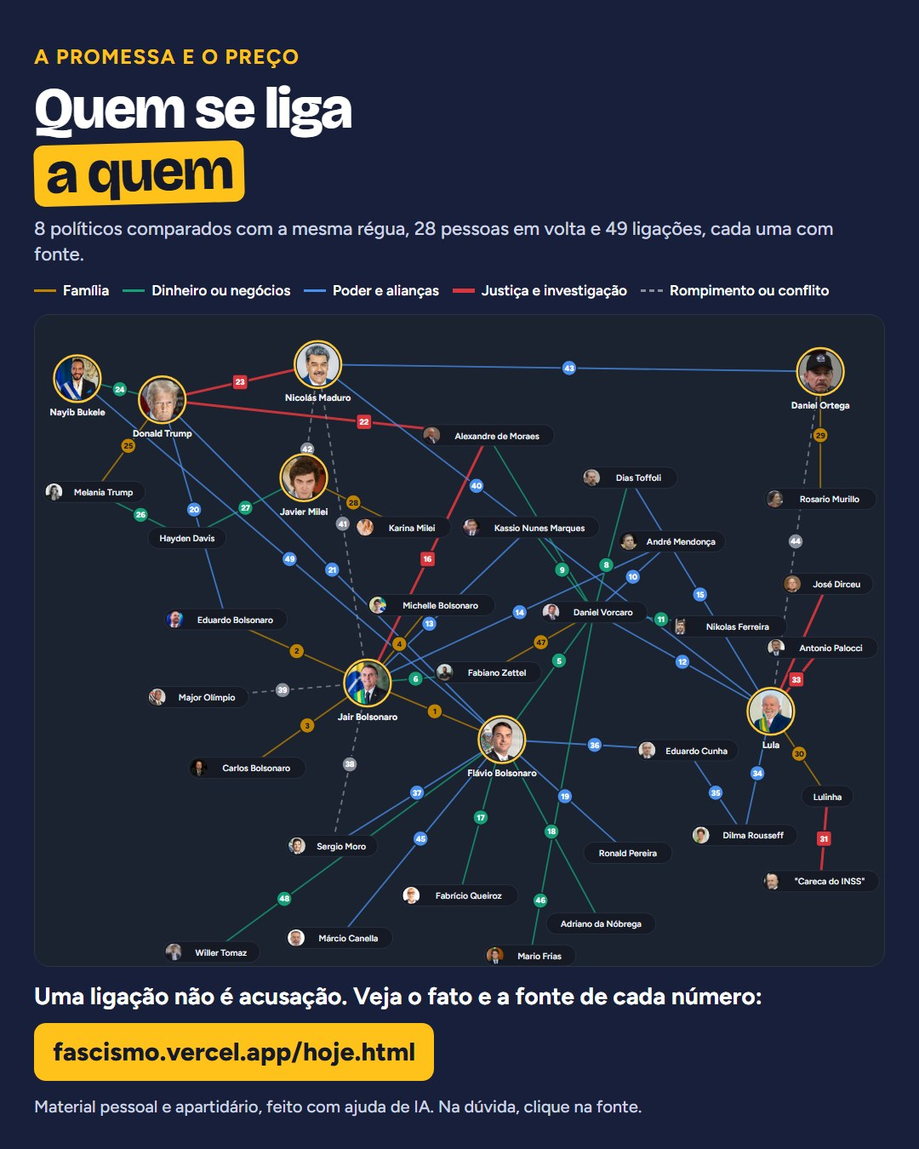
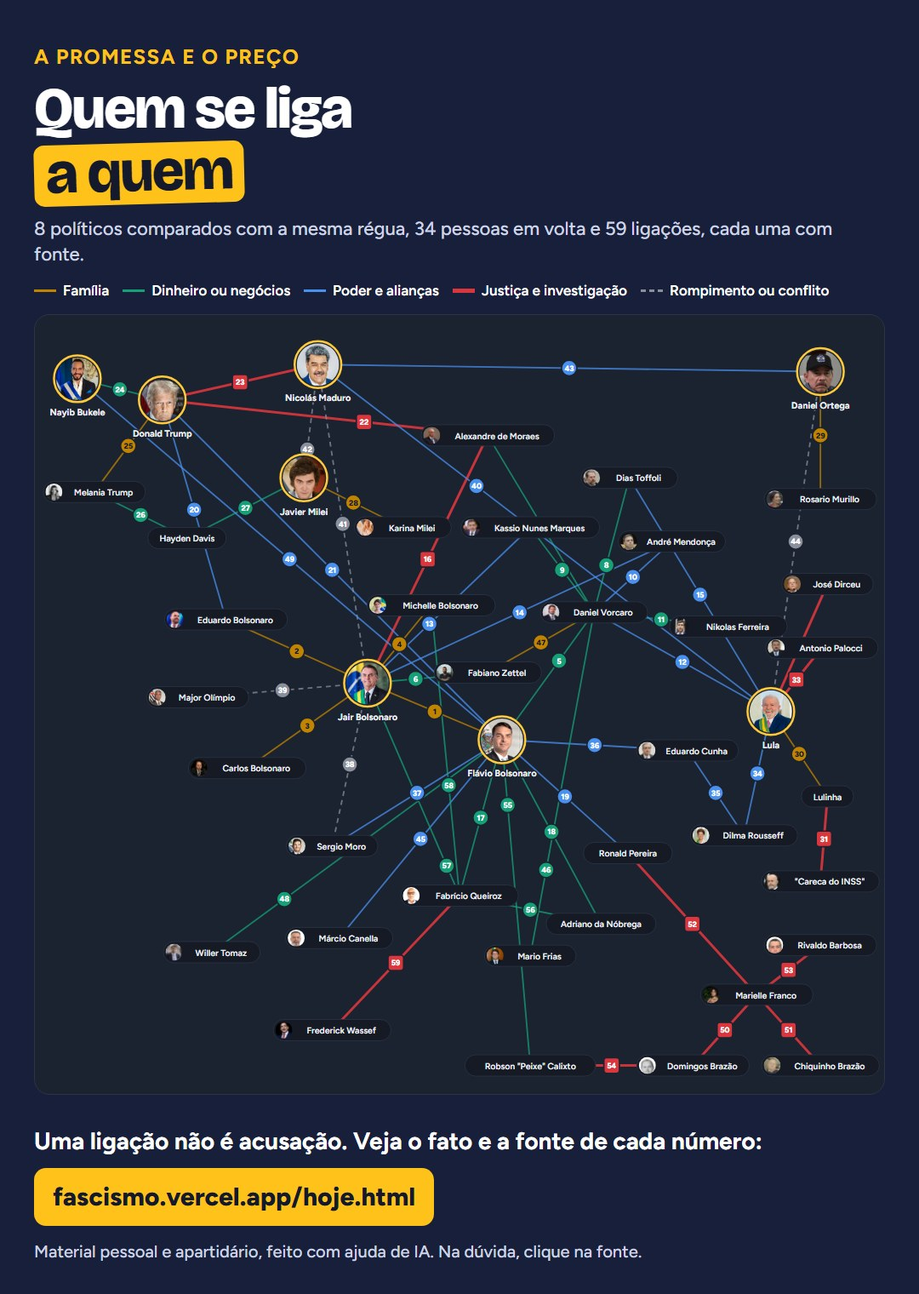
Caso Marielle, Queiroz e Flavio advogado: 10 ligacoes novas no mapa e 2 cards

Changed region(s): [[0.0306, 0.0311, 0.9472, 0.9956], [0.1833, 0.7156, 0.275, 0.7467]]

diff --git a/js/conexoes.js b/js/conexoes.js
@@ -37,7 +37,13 @@
     canella: ['Márcio Canella', 430, 880],
     frias: ['Mario Frias', 700, 905],
     zettel: ['Fabiano Zettel', 640, 505],
-    tomaz: ['Willer Tomaz', 250, 900]
+    tomaz: ['Willer Tomaz', 250, 900],
+    marielle: ['Marielle Franco', 1020, 960],
+    domingos: ['Domingos Brazão', 930, 1060],
+    chiquinho: ['Chiquinho Brazão', 1110, 1060],
+    rivaldo: ['Rivaldo Barbosa', 1110, 890],
+    peixe: ['Robson "Peixe" Calixto', 700, 1060],
+    wassef: ['Frederick Wassef', 420, 1010]
   };
   /* [de, para, tipo, texto, posicao do numero na linha (opcional, 0 a 1), fonte (opcional, para fatos que nao estao no resto da pagina)] */
   var L = [
@@ -86,10 +92,20 @@
     ['maduro', 'ortega', 'poder', 'Aliados: em 2021, Maduro saudou a reeleição de Ortega, feita com os sete principais rivais presos.', 0.5, ['RPP', 'https://rpp.pe/mundo/actualidad/nicaragua-tiene-quien-la-defienda-nicolas-maduro-saluda-la-segura-reeleccion-de-daniel-ortega-noticia-1367976']],
     ['lula', 'ortega', 'rompe', 'Ortega ignorou o pedido de Lula pela libertação de um bispo preso; em 08/2024, os dois países expulsaram os embaixadores um do outro.', 0.5, ['SBT News', 'https://sbtnews.sbt.com.br/noticia/politica/em-retaliacao-a-ortega-governo-lula-expulsa-embaixadora-da-nicaragua']],
     ['flavio', 'canella', 'poder', 'Flávio apoiou Canella ao Senado em 2026, com a própria mãe como suplente; Canella foi preso duas vezes na operação Unha e Carne e nega os crimes.', 0.5, ['Jornal do Brasil', 'https://www.jb.com.br/brasil/politica/2026/07/1060205-preso-pela-pf-canella-e-o-candidato-ao-senado-de-flavio-bolsonaro-no-rj.html']],
-    ['frias', 'vorcaro', 'dinheiro', 'O deputado e ator Mario Frias (PL), reeleito em 2026, criou a história do filme sobre Jair e agradeceu a Vorcaro pelo apoio; a produtora nega ter recebido dinheiro do banqueiro.', 0.16, ['O Povo (BBC)', 'https://www.opovo.com.br/agencia/bbc/2026/05/27/de-baixissimo-orcamento-a-milhoes-pedidos-a-vorcaro-os-bastidores-do-filme-sobre-bolsonaro.html']],
+    ['frias', 'vorcaro', 'dinheiro', 'O deputado e ator Mario Frias (PL), reeleito em 2026, criou a história do filme sobre Jair e agradeceu a Vorcaro pelo apoio; a produtora nega ter recebido dinheiro do banqueiro.', 0.25, ['O Povo (BBC)', 'https://www.opovo.com.br/agencia/bbc/2026/05/27/de-baixissimo-orcamento-a-milhoes-pedidos-a-vorcaro-os-bastidores-do-filme-sobre-bolsonaro.html']],
     ['vorcaro', 'zettel', 'familia', 'Cunhado e, segundo a PF, operador financeiro de Vorcaro. A igreja Lagoinha de Belo Horizonte recebeu R$ 19,2 milhões dele entre 2024 e 2025, segundo o Coaf.', 0.5, ['Correio Braziliense', 'https://www.correiobraziliense.com.br/economia/2026/01/7343481-church-bank-banco-master-lagoinha-e-as-conexoes-sob-investigacao.html']],
     ['flavio', 'tomaz', 'dinheiro', 'A PF aponta Flávio como "usuário master" da conta de uma empresa do advogado Willer Tomaz, dona de um terço do jato também usado por Vorcaro; Tomaz é investigado na fraude do INSS. Flávio nega e diz que o vínculo foi um erro corrigido. Segundo a PF, os dois conversavam pelo Confide, aplicativo de mensagens que se apagam.', 0.75, ['BPMoney', 'https://bpmoney.com.br/politica/flavio-bolsonaro-usuario-master-offshore-jato-vorcaro/']],
-    ['flavio', 'bukele', 'poder', 'Flávio e Eduardo foram a El Salvador em 11/2025 estudar o modelo de segurança de Bukele e se reuniram com o ministro da Segurança dele.', 0.5, ['CNN Brasil', 'https://www.cnnbrasil.com.br/politica/flavio-e-eduardo-vao-a-el-salvador-encontrar-bukele/']]
+    ['flavio', 'bukele', 'poder', 'Flávio e Eduardo foram a El Salvador em 11/2025 estudar o modelo de segurança de Bukele e se reuniram com o ministro da Segurança dele.', 0.5, ['CNN Brasil', 'https://www.cnnbrasil.com.br/politica/flavio-e-eduardo-vao-a-el-salvador-encontrar-bukele/']],
+    ['domingos', 'marielle', 'justica', 'Em 02/2026, o STF condenou Domingos Brazão a 76 anos e 3 meses como mandante dos assassinatos de Marielle e do motorista Anderson Gomes; cabe recurso.', 0.5, ['Agência Brasil', 'https://agenciabrasil.ebc.com.br/justica/noticia/2026-02/por-unanimidade-stf-condena-assassinos-de-marielle-e-anderson']],
+    ['chiquinho', 'marielle', 'justica', 'Irmão de Domingos, Chiquinho Brazão também foi condenado pelo STF a 76 anos e 3 meses como mandante; cabe recurso.', 0.5, ['Metrópoles', 'https://www.metropoles.com/colunas/manoela-alcantara/caso-marielle-penas-brazao-stf']],
+    ['ronald', 'marielle', 'justica', 'Em 02/2026, o STF condenou Ronald a 56 anos por participar do planejamento e do monitoramento de Marielle.', 0.5, ['CNN Brasil', 'https://www.cnnbrasil.com.br/politica/stf-condena-major-ronald-a-56-anos-pela-morte-de-marielle-franco/']],
+    ['rivaldo', 'marielle', 'justica', 'Chefe da Polícia Civil do Rio quando o crime aconteceu, Rivaldo foi absolvido do homicídio e condenado a 18 anos por obstrução de Justiça e corrupção.', 0.5, ['Metrópoles', 'https://www.metropoles.com/colunas/manoela-alcantara/caso-marielle-penas-brazao-stf']],
+    ['peixe', 'domingos', 'justica', 'Ex-assessor de Domingos na Alerj e no Tribunal de Contas do Rio, Peixe foi condenado pelo STF a 9 anos por integrar a organização criminosa dos Brazão.', 0.5, ['Estado de Minas', 'https://www.em.com.br/nacional/2026/09/7506650-quem-e-robson-calixto-o-miliciano-que-cobrou-emenda-de-flavio-bolsonaro.html']],
+    ['flavio', 'peixe', 'dinheiro', 'Em 10/2023, Peixe pediu a uma assessora de Flávio ajuda do "nosso senador" para um projeto esportivo; dias depois, uma emenda de Flávio destinou R$ 199.999,79 ao instituto indicado. O TCU viu indícios de irregularidade. Flávio diz que a destinação foi regular.', 0.2, ['Poder360', 'https://www.poder360.com.br/poder-congresso/assessora-de-flavio-tratou-de-emenda-com-miliciano-do-caso-marielle/']],
+    ['queiroz', 'adriano', 'dinheiro', 'Segundo o MP do Rio, Queiroz levou a mulher e a mãe de Adriano para o gabinete de Flávio, e parte dos salários voltou para ele. Em 2020, o advogado de Adriano assumiu a defesa de Queiroz.', 0.5, ['Correio Braziliense', 'https://www.correiobraziliense.com.br/app/noticia/politica/2020/06/18/interna_politica,864956/advogado-de-miliciano-morto-na-bahia-agora-defende-queiroz.shtml']],
+    ['jair', 'queiroz', 'dinheiro', 'Amigo de Jair desde 1984, quando foi soldado dele na brigada paraquedista. A filha de Queiroz trabalhou no gabinete de Jair na Câmara de 2016 a 2018, enquanto dava aulas de personal trainer no Rio, e repassou ao pai R$ 150 mil, 77% do que recebeu.', 0.86, ['Congresso em Foco', 'https://www.congressoemfoco.com.br/corrupcao/gabinete-de-bolsonaro-atestou-frequencia-de-filha-de-queiroz-que-era-personal-trainer-no-rj']],
+    ['michelle', 'queiroz', 'dinheiro', 'Queiroz e a mulher depositaram R$ 89 mil em 27 cheques na conta de Michelle entre 2011 e 2016. Jair disse que era o pagamento de um empréstimo de R$ 40 mil; a PGR foi contra investigar, e o pedido foi arquivado.', 0.62, ['O Povo', 'https://mais.opovo.com.br/jornal/politica/2020/08/08/queiroz-e-esposa-fizeram-27-depositos-para-michelle-bolsonaro.html']],
+    ['queiroz', 'wassef', 'justica', 'Queiroz foi preso em 06/2020 numa casa de Frederick Wassef em Atibaia (SP); Wassef era advogado de Flávio e de Jair e nega tê-lo escondido.', 0.5, ['Metrópoles', 'https://www.metropoles.com/brasil/policia-br/policia-arrombou-portao-da-casa-de-advogado-para-prender-fabricio-queiroz']],
   ];
   var TIPOS = { familia: 'Família', dinheiro: 'Dinheiro ou negócios', poder: 'Poder e alianças', justica: 'Justiça e investigação', rompe: 'Rompimento ou conflito' };
 
@@ -108,20 +124,27 @@
     'Moro deixou o governo acusando interferência na PF.', 'Rompeu dizendo que Jair quis "proteger filho bandido".', 'Lula chamou de "narrativa" as acusações a Maduro.',
     'Jair rompeu com Maduro e reconheceu Guaidó.', 'Milei chamou Maduro de "ditador criminoso".', 'Aliados; Maduro saudou a reeleição de Ortega.', 'Ortega ignorou Lula; embaixadores expulsos.',
     'Flávio apoiou Canella ao Senado; Canella foi preso.', 'Frias criou o filme sobre Jair e agradeceu Vorcaro.', 'Cunhado e operador financeiro de Vorcaro.',
-    'PF aponta Flávio como "usuário master" de conta de Tomaz; os dois conversavam por app de mensagens que se apagam.', 'Flávio foi a El Salvador estudar o modelo de Bukele.'
+    'PF aponta Flávio como "usuário master" de conta de Tomaz; os dois conversavam por app de mensagens que se apagam.', 'Flávio foi a El Salvador estudar o modelo de Bukele.',
+    'Condenado como mandante da morte de Marielle.', 'Condenado como mandante da morte de Marielle.', 'Condenado a 56 anos pela morte de Marielle.',
+    'Condenado por obstruir a investigação.', 'Condenado por integrar o grupo dos Brazão.', 'Pediu à assessora de Flávio; emenda de R$ 200 mil foi ao instituto indicado.',
+    'Mulher e mãe de Adriano no gabinete, segundo o MP.',
+    'Soldado de Jair em 1984; a filha dele esteve no gabinete de Jair.', 'R$ 89 mil em cheques para Michelle.', 'Preso numa casa do advogado da família.'
   ];
   var IR = ['crit-7', 'volta-8', 'volta-8', 'volta-7', 'crit-7', 'volta-4', 'volta-4', 'volta-4', 'volta-5', 'volta-4', 'volta-4', 'volta-4', 'volta-5', 'crit-10', 'volta-4',
     'crit-5', 'crit-7', 'crit-5', 'crit-5', 'volta-3', 'volta-12', 'volta-3', 'crit-7', 'crit-6', 'crit-7', 'crit-7', 'crit-7', 'crit-7', 'crit-7', 'crit-7', 'crit-7', 'crit-7', 'crit-7',
-    'volta-10', 'volta-10', 'volta-10', 'volta-9', 'crit-3', 'volta-9', 'lig-40', 'lig-41', 'lig-42', 'lig-43', 'lig-44', 'volta-11', 'volta-15', 'volta-6', 'crit-7', 'lig-49'];
+    'volta-10', 'volta-10', 'volta-10', 'volta-9', 'crit-3', 'volta-9', 'lig-40', 'lig-41', 'lig-42', 'lig-43', 'lig-44', 'volta-11', 'volta-15', 'volta-6', 'crit-7', 'lig-49',
+    'volta-17', 'volta-17', 'volta-17', 'volta-17', 'volta-17', 'volta-17', 'volta-17', 'lig-57', 'lig-58', 'lig-59'];
   var PAPEL = {
     trump: 'Presidente dos EUA', melania: 'Mulher de Trump', hayden: 'Empresário de criptomoedas', milei: 'Presidente da Argentina', karina: 'Irmã de Milei, secretária-geral',
     maduro: 'Ex-presidente da Venezuela, preso nos EUA', bukele: 'Presidente de El Salvador', ortega: 'Presidente da Nicarágua', murillo: 'Copresidente da Nicarágua',
     jair: 'Ex-presidente, condenado por tentativa de golpe', flavio: 'Senador, candidato do PL a presidente', eduardo: 'Filho de Jair', carlos: 'Filho de Jair, eleito senador',
-    michelle: 'Mulher de Jair, eleita senadora', moro: 'Ex-ministro de Jair, eleito governador do PR', olimpio: 'Ex-senador, morto em 2021', queiroz: 'Ex-assessor de Flávio',
+    michelle: 'Mulher de Jair, eleita senadora', moro: 'Ex-ministro de Jair, eleito governador do PR', olimpio: 'Ex-senador, morto em 2021', queiroz: 'Ex-assessor de Flávio, amigo de Jair desde 1984',
     adriano: 'Ex-PM, chefe do "Escritório do Crime"', ronald: 'Ex-PM, condenado no caso Marielle', vorcaro: 'Dono do Banco Master, preso', moraes: 'Ministro do STF',
     toffoli: 'Ministro do STF', kassio: 'Ministro do STF e presidente do TSE', mendonca: 'Ministro do STF', nikolas: 'Deputado federal (PL)', lula: 'Presidente, candidato à reeleição',
     lulinha: 'Filho de Lula', careca: 'Operador das fraudes do INSS, segundo a PF', dirceu: 'Ex-ministro de Lula', palocci: 'Ex-ministro de Lula', dilma: 'Ex-presidente',
-    cunha: 'Ex-presidente da Câmara', canella: 'Deputado estadual eleito (União)', frias: 'Deputado federal (PL) e ator', zettel: 'Cunhado de Vorcaro, preso', tomaz: 'Advogado investigado no caso do INSS'
+    cunha: 'Ex-presidente da Câmara', canella: 'Deputado estadual eleito (União)', frias: 'Deputado federal (PL) e ator', zettel: 'Cunhado de Vorcaro, preso', tomaz: 'Advogado investigado no caso do INSS',
+    marielle: 'Vereadora do Rio (PSOL), assassinada em 2018', domingos: 'Condenado como mandante da morte de Marielle', chiquinho: 'Condenado como mandante da morte de Marielle',
+    rivaldo: 'Ex-chefe da Polícia Civil do Rio, condenado', peixe: 'Ex-assessor de Domingos Brazão, condenado', wassef: 'Advogado de Flávio e de Jair até 2020'
   };
 
   var svg = document.getElementById('rede-svg');
@@ -148,7 +171,7 @@
     var t = el('text', { x: mx, y: my + 4 }, g); t.textContent = n;
   });
 
-  var FOTO = {queiroz: 'assets/p-queiroz.jpg', melania: 'assets/p-melania.jpg', karina: 'assets/p-karina.jpg', murillo: 'assets/p-murillo.jpg', eduardo: 'assets/p-eduardo.jpg', carlos: 'assets/p-carlos.jpg', michelle: 'assets/p-michelle.jpg', moro: 'assets/p-moro.jpg', olimpio: 'assets/p-olimpio.jpg', vorcaro: 'assets/p-vorcaro.jpg', moraes: 'assets/p-moraes.jpg', toffoli: 'assets/p-toffoli.jpg', kassio: 'assets/p-kassio.jpg', mendonca: 'assets/p-mendonca.jpg', nikolas: 'assets/p-nikolas.jpg', careca: 'assets/p-careca.jpg', dirceu: 'assets/p-dirceu.jpg', palocci: 'assets/p-palocci.jpg', dilma: 'assets/p-dilma.jpg', cunha: 'assets/p-cunha.jpg', canella: 'assets/p-canella.jpg', frias: 'assets/p-frias.jpg', zettel: 'assets/p-zettel.jpg', tomaz: 'assets/p-tomaz.jpg'};
+  var FOTO = {wassef: 'assets/p-wassef.jpg', marielle: 'assets/p-marielle.jpg', domingos: 'assets/p-domingos.jpg', chiquinho: 'assets/p-chiquinho.jpg', rivaldo: 'assets/p-rivaldo.jpg', queiroz: 'assets/p-queiroz.jpg', melania: 'assets/p-melania.jpg', karina: 'assets/p-karina.jpg', murillo: 'assets/p-murillo.jpg', eduardo: 'assets/p-eduardo.jpg', carlos: 'assets/p-carlos.jpg', michelle: 'assets/p-michelle.jpg', moro: 'assets/p-moro.jpg', olimpio: 'assets/p-olimpio.jpg', vorcaro: 'assets/p-vorcaro.jpg', moraes: 'assets/p-moraes.jpg', toffoli: 'assets/p-toffoli.jpg', kassio: 'assets/p-kassio.jpg', mendonca: 'assets/p-mendonca.jpg', nikolas: 'assets/p-nikolas.jpg', careca: 'assets/p-careca.jpg', dirceu: 'assets/p-dirceu.jpg', palocci: 'assets/p-palocci.jpg', dilma: 'assets/p-dilma.jpg', cunha: 'assets/p-cunha.jpg', canella: 'assets/p-canella.jpg', frias: 'assets/p-frias.jpg', zettel: 'assets/p-zettel.jpg', tomaz: 'assets/p-tomaz.jpg'};
   Object.keys(N).forEach(function (id) {
     var d = N[id], g = el('g', { 'class': 'r-no' + (d[3] ? ' r-foto' : ''), 'data-id': id, tabindex: 0, role: 'button', 'aria-label': d[0] + ': ver as ligações' }, gN);
     if (d[3]) {

diff --git a/hoje.html b/hoje.html
@@ -23,7 +23,7 @@
 <link rel="preconnect" href="https://fonts.googleapis.com">
 <link rel="preconnect" href="https://fonts.gstatic.com" crossorigin>
 <link href="https://fonts.googleapis.com/css2?family=Bricolage+Grotesque:opsz,wght@12..96,500;12..96,700;12..96,800&family=Figtree:wght@400;500;600;700&display=swap" rel="stylesheet">
-<link rel="stylesheet" href="css/estilo.css?v=20261015i">
+<link rel="stylesheet" href="css/estilo.css?v=20261015k">
 </head>
 <body>
 <a class="pular" href="#conteudo">Pular para o conteúdo</a>
@@ -379,6 +379,35 @@
       <a class="fonte" href="https://www.infomoney.com.br/politica/flavio-bolsonaro-descarta-privatizacao-da-petrobras-como-boataria/" target="_blank" rel="noopener">Fonte: InfoMoney</a>
       </div>
     </details>
+    <details class="rev volta-item" id="volta-17">
+      <summary><span class="volta-n">17</span><span class="volta-tit">Caso Marielle: os condenados e as ligações com o gabinete de Flávio</span><svg class="ic volta-seta" viewBox="0 0 24 24" aria-hidden="true"><path d="M6 9l6 6 6-6"/></svg></summary>
+      <div class="volta-corpo">
+      <p><b>O julgamento.</b> Em 02/2026, a Primeira Turma do STF condenou, por unanimidade, os irmãos Domingos e Chiquinho Brazão a 76 anos e 3 meses cada, como mandantes dos assassinatos da vereadora Marielle Franco e do motorista Anderson Gomes, em 03/2018. O major da PM Ronald Pereira pegou 56 anos por participar do planejamento e do monitoramento de Marielle. Rivaldo Barbosa, chefe da Polícia Civil do Rio quando o crime aconteceu, foi absolvido do homicídio e condenado a 18 anos por obstrução de Justiça e corrupção. Robson Calixto, o "Peixe", ex-assessor de Domingos, pegou 9 anos por integrar a organização criminosa. Cabe recurso.</p>
+      <p><b>As homenagens.</b> Como deputado estadual, Flávio deu moção de louvor a Adriano da Nóbrega em 10/2003, pela "dedicação, brilhantismo e galhardia", e propôs em 2005 a Medalha Tiradentes, entregue na prisão: Adriano estava preso pela morte de um flanelinha que, segundo a acusação, tinha denunciado policiais na véspera. Foi condenado em 2005 e absolvido em novo júri. Depois, foi apontado como chefe do "Escritório do Crime" e morreu numa ação da polícia da Bahia em 02/2020. Em 2004, Flávio deu moção de louvor a Ronald.</p>
+      <p><b>O gabinete.</b> Segundo o MP do Rio, Fabrício Queiroz levou a mulher e a mãe de Adriano para o gabinete de Flávio na Alerj, e parte dos salários voltou para Queiroz. Em 12/2019, segundo o MP, o advogado Luís Botto Maia, que trabalhou na campanha de Flávio em 2018, teve contato com Adriano, então foragido. Em 06/2020, o advogado de Adriano, Paulo Emílio Catta Preta, assumiu a defesa de Queiroz.</p>
+      <p><b>A emenda.</b> Em 24/10/2023, Peixe pediu a uma assessora de Flávio no Senado ajuda do "nosso senador" para um projeto esportivo. Em 06/11, cobrou que ela não esquecesse o instituto, e ela respondeu "Pode deixar". Dias depois, uma emenda de Flávio destinou R$ 199.999,79, por meio do Ministério do Esporte, ao Instituto de Formação Profissional José Carlos Procópio, para o projeto "Jogadores do Futuro", na Taquara. Um relatório técnico do TCU apontou indícios de irregularidades: a empresa contratada para coordenar o projeto é um escritório de advocacia do próprio presidente do instituto. As mensagens estão no celular de Peixe, apreendido pela PF, e fazem parte de uma apuração sigilosa no STF sobre emendas para entidades ligadas aos Brazão.</p>
+      <p class="mas"><b>Para ler com cuidado</b>Nenhuma investigação apontou participação de Flávio no caso Marielle. Ele diz que a emenda foi regular, seguiu critérios técnicos do Ministério do Esporte e que a execução cabe à entidade; o advogado dele diz que a emenda foi fiscalizada pelo ministério e pelo TCU. A família diz que homenageou centenas de policiais e que era impossível prever o que alguns fariam depois. Adriano foi absolvido no caso pelo qual estava preso.</p>
+      <a class="fonte" href="https://agenciabrasil.ebc.com.br/justica/noticia/2026-02/por-unanimidade-stf-condena-assassinos-de-marielle-e-anderson" target="_blank" rel="noopener">Fonte: Agência Brasil (julgamento)</a>
+      <a class="fonte" href="https://www.metropoles.com/colunas/manoela-alcantara/caso-marielle-penas-brazao-stf" target="_blank" rel="noopener">Fonte: Metrópoles (penas)</a>
+      <a class="fonte" href="https://www.em.com.br/nacional/2026/09/7506650-quem-e-robson-calixto-o-miliciano-que-cobrou-emenda-de-flavio-bolsonaro.html" target="_blank" rel="noopener">Fonte: Estado de Minas (Peixe)</a>
+      <a class="fonte" href="https://www.poder360.com.br/poder-congresso/assessora-de-flavio-tratou-de-emenda-com-miliciano-do-caso-marielle/" target="_blank" rel="noopener">Fonte: Poder360 (emenda)</a>
+      <a class="fonte" href="https://www.jb.com.br/rio/2019/01/975063-ex-pm-estava-preso-quando-foi-homenageado-por-flavio-bolsonaro.html" target="_blank" rel="noopener">Fonte: Jornal do Brasil (homenagens)</a>
+      <a class="fonte" href="https://exame.com/brasil/ex-pm-estava-preso-quando-recebeu-homenagem-de-flavio-bolsonaro/" target="_blank" rel="noopener">Fonte: Exame (medalha na prisão)</a>
+      <a class="fonte" href="https://amazonasatual.com.br/miliciano-foragido-foi-contactado-por-queiroz-e-advogado-dos-bolsonaro/" target="_blank" rel="noopener">Fonte: Amazonas Atual (Botto Maia)</a>
+      <a class="fonte" href="https://www.correiobraziliense.com.br/app/noticia/politica/2020/06/18/interna_politica,864956/advogado-de-miliciano-morto-na-bahia-agora-defende-queiroz.shtml" target="_blank" rel="noopener">Fonte: Correio Braziliense (Catta Preta)</a>
+      </div>
+    </details>
+    <details class="rev volta-item" id="volta-18">
+      <summary><span class="volta-n">18</span><span class="volta-tit">Flávio, advogado de policiais acusados de homicídio</span><svg class="ic volta-seta" viewBox="0 0 24 24" aria-hidden="true"><path d="M6 9l6 6 6-6"/></svg></summary>
+      <div class="volta-corpo">
+      <p>Flávio é advogado inscrito na OAB. Assinou recurso ao STJ para tirar do Tribunal do Júri o ex-cabo da PM Bruno Dias Delaroli, acusado de matar Ana Clara Gomes Machado, de 5 anos, atingida por tiros de fuzil enquanto brincava na calçada de casa, em Niterói, em 02/2021. O STJ rejeitou o recurso; cinco anos depois do crime, o júri ainda não aconteceu.</p>
+      <p>Em 2024, recebeu procuração para defender no STJ quatro PMs acusados pelo MP do Rio de matar quatro moradores numa operação no Vidigal, em 01/2020. A Justiça do Rio tinha mandado os policiais a júri; o Tribunal de Justiça derrubou essa decisão, o MP recorreu ao STJ e a Procuradoria-Geral da República apoiou o recurso do MP. Ele atua ao lado do advogado Paulo Klein, que já defendeu Fabrício Queiroz.</p>
+      <p class="mas"><b>Para ler com cuidado</b>Todo acusado tem direito a defesa, e advogar não é crime. Nenhum dos policiais foi julgado. A defesa dos PMs do Vidigal diz que as testemunhas eram parentes das vítimas e que as perícias não eram confiáveis.</p>
+      <a class="fonte" href="https://atarde.com.br/politica/entenda-como-flavio-bolsonaro-travou-juri-de-pm-acusado-de-matar-menina-de-5-anos-1404027" target="_blank" rel="noopener">Fonte: A Tarde (Ana Clara)</a>
+      <a class="fonte" href="https://www.metropoles.com/sao-paulo/flavio-bolsonaro-defesa-pms-acusados" target="_blank" rel="noopener">Fonte: Metrópoles (Vidigal)</a>
+      <a class="fonte" href="https://www.folhape.com.br/politica/de-acao-contra-banco-a-defesa-de-pms-flavio-bolsonaro-atua-como/372981/" target="_blank" rel="noopener">Fonte: Folha de Pernambuco</a>
+      </div>
+    </details>
   </div>
 </section>
 
@@ -391,7 +420,7 @@
   <div class="rede-filtro" id="rede-filtro" role="group" aria-label="Mostrar só um tipo de ligação"><button type="button" data-t="" aria-pressed="true">Todas</button><button type="button" class="r-familia" data-t="familia" aria-pressed="false">Família</button><button type="button" class="r-dinheiro" data-t="dinheiro" aria-pressed="false">Dinheiro ou negócios</button><button type="button" class="r-poder" data-t="poder" aria-pressed="false">Poder e alianças</button><button type="button" class="r-justica" data-t="justica" aria-pressed="false">Justiça e investigação</button><button type="button" class="r-rompe" data-t="rompe" aria-pressed="false">Rompimento ou conflito</button></div>
   <p class="eco-dica">Toque num número para ver o resumo da ligação, ou num nome para ver as ligações da pessoa.</p>
   <div class="rede-rol" tabindex="0" aria-label="Mapa de ligações. Role para os lados no celular. A lista abaixo traz o mesmo conteúdo em texto.">
-    <svg id="rede-svg" viewBox="0 0 1200 920" role="img" aria-label="Mapa de ligações entre as pessoas citadas na página; o conteúdo está na lista numerada abaixo"></svg>
+    <svg id="rede-svg" viewBox="0 0 1200 1100" role="img" aria-label="Mapa de ligações entre as pessoas citadas na página; o conteúdo está na lista numerada abaixo"></svg>
   </div>
   <p class="rede-baixar">Baixar o mapa como imagem: <a href="assets/conexoes.jpg" download="quem-se-liga-a-quem.jpg">horizontal</a> ou <a href="assets/conexoes-vertical.jpg" download="quem-se-liga-a-quem-vertical.jpg">vertical, para status e Instagram</a></p>
   <ol class="rede-lista" id="rede-lista"></ol>
@@ -567,11 +596,11 @@
   <a href="index.html">Página completa</a>
 </footer>
 
-<script src="js/hoje-dados.js?v=20261015i"></script>
-<script src="js/hoje-resumos.js?v=20261015i"></script>
-<script src="js/hoje.js?v=20261015i"></script>
-<script src="js/conexoes.js?v=20261015i"></script>
-<script src="js/economia.js?v=20261015i"></script>
-<script src="js/menu.js?v=20261015i"></script>
+<script src="js/hoje-dados.js?v=20261015k"></script>
+<script src="js/hoje-resumos.js?v=20261015k"></script>
+<script src="js/hoje.js?v=20261015k"></script>
+<script src="js/conexoes.js?v=20261015k"></script>
+<script src="js/economia.js?v=20261015k"></script>
+<script src="js/menu.js?v=20261015k"></script>
 </body>
 </html>

diff --git a/js/creditos.js b/js/creditos.js
@@ -397,5 +397,40 @@ window.CREDITOS = [
         "autor":  "TSE (dados abertos)",
         "licenca":  "CC BY 4.0",
         "pagina":  "https://dadosabertos.tse.jus.br/dataset/candidatos-2022"
+    },
+    {
+        "id":  "p-marielle",
+        "nome":  "Retrato de Marielle Franco",
+        "autor":  "Mídia Ninja",
+        "licenca":  "CC BY-SA 2.0",
+        "pagina":  "https://commons.wikimedia.org/wiki/File:Marielle_Franco.jpg"
+    },
+    {
+        "id":  "p-domingos",
+        "nome":  "Domingos Brazão, foto de candidatura, 2014",
+        "autor":  "TSE (dados abertos)",
+        "licenca":  "CC BY 4.0",
+        "pagina":  "https://commons.wikimedia.org/wiki/File:2014_DOMINGOS_BRAZ%C3%83O_CANDIDATO_DEPUTADO_ESTADUAL_RIO_DE_JANEIRO_-_TSE.jpg"
+    },
+    {
+        "id":  "p-chiquinho",
+        "nome":  "Retrato de Chiquinho Brazão",
+        "autor":  "Gabinete do deputado Chiquinho Brazão",
+        "licenca":  "CC BY 3.0",
+        "pagina":  "https://commons.wikimedia.org/wiki/File:Chiquinho_Braz%C3%A3o_(cropped).png"
+    },
+    {
+        "id":  "p-rivaldo",
+        "nome":  "Rivaldo Barbosa, relatório final do caso Marielle",
+        "autor":  "Polícia Federal",
+        "licenca":  "Domínio público",
+        "pagina":  "https://commons.wikimedia.org/wiki/File:Rivaldo_Barbosa.jpg"
+    },
+    {
+        "id":  "p-wassef",
+        "nome":  "Retrato de Frederick Wassef",
+        "autor":  "Agência Senado",
+        "licenca":  "CC BY 2.0",
+        "pagina":  "https://commons.wikimedia.org/wiki/File:Frederick_Wassef_(cropped).jpg"
     }
 ];

diff --git a/index.html b/index.html
@@ -23,7 +23,7 @@
 <link rel="preconnect" href="https://fonts.googleapis.com">
 <link rel="preconnect" href="https://fonts.gstatic.com" crossorigin>
 <link href="https://fonts.googleapis.com/css2?family=Bricolage+Grotesque:opsz,wght@12..96,500;12..96,700;12..96,800&family=Figtree:wght@400;500;600;700&display=swap" rel="stylesheet">
-<link rel="stylesheet" href="css/estilo.css?v=20261015i">
+<link rel="stylesheet" href="css/estilo.css?v=20261015k">
 </head>
 <body>
 <a class="pular" href="#conteudo">Pular para o conteúdo</a>
@@ -250,10 +250,10 @@
   <p id="luz-leg"></p>
 </dialog>
 
-<script src="js/creditos.js?v=20261015i"></script>
-<script src="js/dados.js?v=20261015i"></script>
-<script src="js/balanco.js?v=20261015i"></script>
-<script src="js/app.js?v=20261015i"></script>
-<script src="js/menu.js?v=20261015i"></script>
+<script src="js/creditos.js?v=20261015k"></script>
+<script src="js/dados.js?v=20261015k"></script>
+<script src="js/balanco.js?v=20261015k"></script>
+<script src="js/app.js?v=20261015k"></script>
+<script src="js/menu.js?v=20261015k"></script>
 </body>
 </html>

diff --git a/jornada.html b/jornada.html
@@ -23,7 +23,7 @@
 <link rel="preconnect" href="https://fonts.googleapis.com">
 <link rel="preconnect" href="https://fonts.gstatic.com" crossorigin>
 <link href="https://fonts.googleapis.com/css2?family=Bricolage+Grotesque:opsz,wght@12..96,500;12..96,700;12..96,800&family=Figtree:wght@400;500;600;700&display=swap" rel="stylesheet">
-<link rel="stylesheet" href="css/jornada.css?v=20261015i">
+<link rel="stylesheet" href="css/jornada.css?v=20261015k">
 </head>
 <body>
 <header class="barra">
@@ -42,7 +42,7 @@
 </nav>
 
 <noscript><p style="padding:24px">Esta página precisa de JavaScript. Você pode ler a <a href="index.html">versão completa</a>.</p></noscript>
-<script src="js/jornada-dados.js?v=20261015i"></script>
-<script src="js/jornada.js?v=20261015i"></script>
+<script src="js/jornada-dados.js?v=20261015k"></script>
+<script src="js/jornada.js?v=20261015k"></script>
 </body>
 </html>
